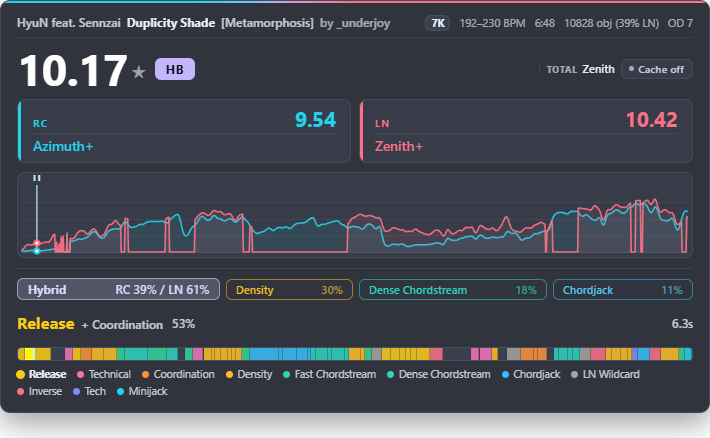
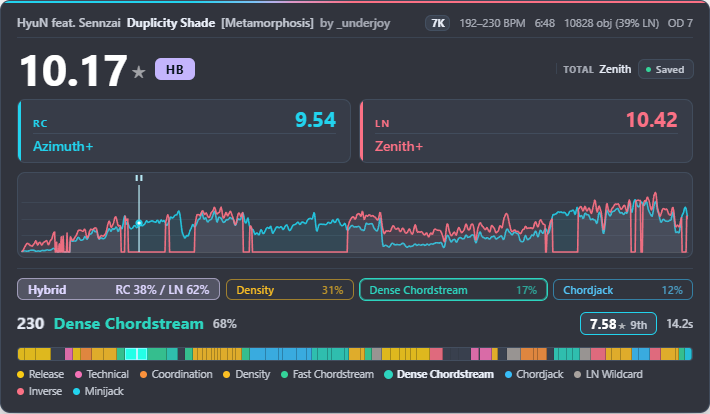
Flatten Minimal segment readout and refresh overlay previews

diff --git a/index.html b/index.html
@@ -977,11 +977,10 @@ body.no-motion #summary-main.mq-run {
     align-items: center;
     gap: 8px;
     margin: 0;
-    padding: 6px 10px;
-    border: 1px solid var(--surface-border);
-    border-radius: 8px;
-    background: var(--surface);
+    padding: 5px 0 5px 12px;
+    border-inline-start: 1px solid var(--rule);
 }
+#minimal-block #seg-row.is-break { background: none; box-shadow: none; }
 #minimal-block #seg-bpm { font-size: clamp(17px, 4.1vw, 22px); }
 #minimal-block #seg-tag {
     flex: 1 1 auto;
@@ -995,7 +994,7 @@ body.no-motion #summary-main.mq-run {
 #minimal-block #seg-dur, #minimal-block #seg-diff .sd-star { display: none; }
 #minimal-block #seg-secondary { margin: 0; }
 #minimal-block #seg-secondary:not(:has(#seg-diff:not(.hidden))) { display: none; }
-#minimal-block #seg-diff { padding: 3px 7px; border: 0; }
+#minimal-block #seg-diff { padding: 0; border: 0; background: none; }
 #minimal-block #seg-diff .sd-dan {
     font-size: clamp(16px, 3.9vw, 22px);
     font-weight: 700;
@@ -1005,7 +1004,7 @@ body.no-motion #summary-main.mq-run {
 #minimal-block #seg-diff.ln .sd-dan { color: var(--ln); }
 @media (max-width: 340px) {
     #container.ui-style-minimal #minimal-block { flex-direction: column; }
-    #minimal-block #seg-row { flex-basis: auto; padding: 5px 8px; }
+    #minimal-block #seg-row { flex-basis: auto; padding: 5px 0 0; border-inline-start: 0; border-top: 1px solid var(--rule); }
 }
 #container.ui-style-minimal #header,
 #container.ui-style-minimal #dan-row,

diff --git a/TESTING.md b/TESTING.md
@@ -8,6 +8,8 @@
   in Minimal, and restored stars on switching back to a full style. Settings
   schema and overlay fallback both default to Dan first / Aurora / Signs (-/+) /
   Medium. The Medium smoothing kernel matches the previous Light value.
+  The final Minimal layout also verifies transparent, borderless dan text.
+  The default leads each dropdown except the ordered smoothing scale.
 - Minimal places the shared live row beside the dans at 488 px and below at
   300 px. Playhead updates reach the readout. Missing time clears it, Break
   and the two segment visibility settings are respected, and curve/timeline

diff --git a/README.md b/README.md
@@ -4,7 +4,7 @@ A [tosu](https://tosu.app) in-game overlay for osu!mania that shows real-time di
 
 [中文](README_zh.md)
 
-![Default view](screenshots/default-7k.png)
+![Default view: Dan first, Aurora](screenshots/default-7k.png)
 
 ## Features
 
@@ -94,7 +94,7 @@ Three layouts under **UI Style**:
 
 ![Aurora, rating first](screenshots/aurora-7k.png)
 ![High Contrast, dan first](screenshots/high-contrast-dan-first.png)
-![Minimal](screenshots/minimal-7k.png)
+![Minimal with borderless segment readout](screenshots/minimal-7k.png)
 
 ### Other
 

diff --git a/README_zh.md b/README_zh.md
@@ -4,7 +4,7 @@
 
 [English](README.md)
 
-![默认界面](screenshots/default-7k.png)
+![默认界面：Dan first，Aurora](screenshots/default-7k.png)
 
 ## 主要功能
 
@@ -94,7 +94,7 @@
 
 ![Aurora 配色，Rating first](screenshots/aurora-7k.png)
 ![High Contrast 配色，Dan first](screenshots/high-contrast-dan-first.png)
-![Minimal 风格](screenshots/minimal-7k.png)
+![Minimal：无框分段读数](screenshots/minimal-7k.png)
 
 ### 其他
 
